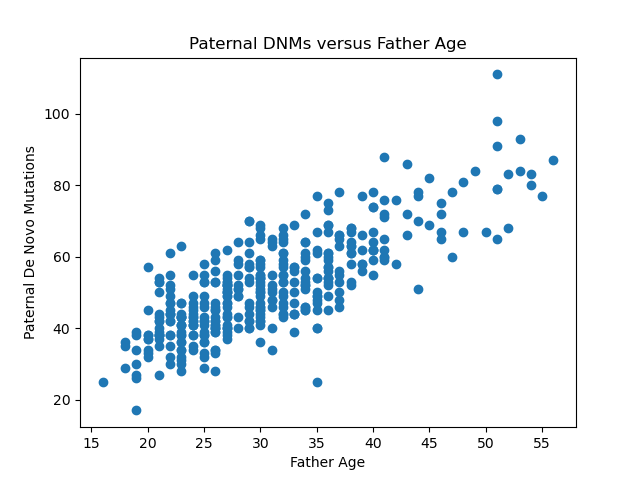
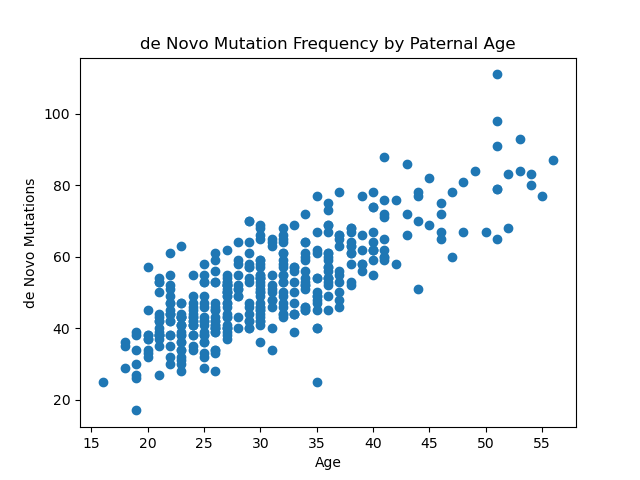
Updating week1 homework

Changed region(s): [[0.2188, 0.0625, 0.8125, 0.125], [0.0312, 0.3125, 0.0625, 0.7188], [0.4375, 0.9375, 0.5625, 1.0]]

diff --git a/week1/week1Hw.py b/week1/week1Hw.py
@@ -1,50 +1,78 @@
 #!/usr/bin/env python
+
 import numpy as np
 import pandas as pd
 import matplotlib.pyplot as plt
+
 import scipy.stats as sps
 import statsmodels.formula.api as smf
 import statsmodels.api as sm
 
 
-#step 1.1
-dataset = pd.read_csv('./aau1043_dnm.csv')
+# Step 1.1
+df = pd.read_csv("~/qbb2023-answers/week1/aau1043_dnm.csv")
 
-#print(dataset)
+# Step 1.2
+sortDf = df.sort_values(by = ['Proband_id'])
+dnms = df.groupby(['Proband_id', 'Phase_combined']).size().reset_index(name = 'Count')
 
-#step 1.2
-count = dataset.groupby(['Proband_id','Phase_combined']).size().reset_index(name = 'Count')
-#print(count)
+
 deNovoCount = {}
-for i in range(0,len(count),2):
-	deNovoCount[count.loc[i, "Proband_id"]] = [count.loc[i+1, "Count"],count.loc[i, "Count"]]
-#print(deNovoCount)
+for i in range(0, len(dnms), 2):
+	deNovoCount[dnms.loc[i, 'Proband_id']] = [dnms.loc[i + 1, 'Count'], dnms.loc[i, 'Count']]
 
-#step 1.3
+print(deNovoCount)
+
+# Step 1.3
 deNovoCountDF = pd.DataFrame.from_dict(deNovoCount, orient = 'index', columns = ['maternal_dnm', 'paternal_dnm'])
-#print(deNovoCountDF)
 
-#step 1.4
-Age = pd.read_csv('./aau1043_parental_age.csv', index_col = 'Proband_id')
-#print(Age)
+# Step 1.4
+df_2 = pd.read_csv("~/qbb2023-answers/week1/aau1043_parental_age.csv", index_col = 'Proband_id')
+print(df_2)
 
-#step 1.5
-concat = pd.concat([deNovoCountDF,Age],axis = 1, join = 'outer')
-#print(concat)
+# Step 1.5
+joinDf = pd.concat([deNovoCountDF, df_2], join = 'outer', axis = 1)
+print(joinDf)
 
 
-#step 2.1
+# Step 2.1
 fig, ax = plt.subplots()
-ax.scatter(concat["Father_age"],concat["paternal_dnm"])
-ax.set_xlabel("Father Age")
-ax.set_ylabel("Paternal De Novo Mutations")
-ax.set_title("Paternal DNMs versus Father Age")
+
+ax.scatter(joinDf["Father_age"], joinDf['paternal_dnm'], label = "male")
+ax.set_ylabel("de Novo Mutations")
+ax.set_xlabel("Age")
+ax.set_title("de Novo Mutation Frequency by Paternal Age")
 fig.savefig("ex2_b.png")
-plt.show()
-fig, bx = plt.subplots()
-bx.scatter(concat["Mother_age"],concat["maternal_dnm"], c = "red")
-bx.set_xlabel("Mother Age")
-bx.set_ylabel("Maternal De Novo Mutations")
-bx.set_title("Maternal DNMs versus Mother Age")
-fig.savefig("ex2_a.png")
-plt.show()
+
+# Step 2.2
+matModel = smf.ols(formula = "maternal_dnm ~ 1 + Mother_age", data = joinDf)
+matResults = matModel.fit()
+print(matResults.summary())
+print(matResults.pvalues)
+
+# Step 2.3
+pModel = smf.ols(formula = "paternal_dnm ~ 1 + Father_age", data = joinDf)
+pResults = pModel.fit()
+print(pResults.summary())
+print(pResults.pvalues)
+
+# Step 2.5
+fig, ax = plt.subplots()
+ax.hist(dnms.loc[dnms['Phase_combined'] == 'father', 'Count'], bins = 20, label = "Paternal", alpha = 0.5)
+ax.hist(dnms.loc[dnms['Phase_combined'] == 'mother', 'Count'], bins = 20, label = "Maternal", alpha = 0.5)
+ax.set_xlabel("de Novo Mutations")
+ax.set_ylabel("Frequency")
+ax.set_title('de Novo Mutations per Proband ID')
+fig.savefig('ex2_c.png')
+
+# Step 2.6
+pData = dnms.loc[dnms['Phase_combined'] == 'father', 'Count']
+mData = dnms.loc[dnms['Phase_combined'] == 'mother', 'Count']
+print(sps.ttest_rel(pData, mData))
+#print(sps.ttest_ind(pData, mData))
+
+
+
+
+
+
